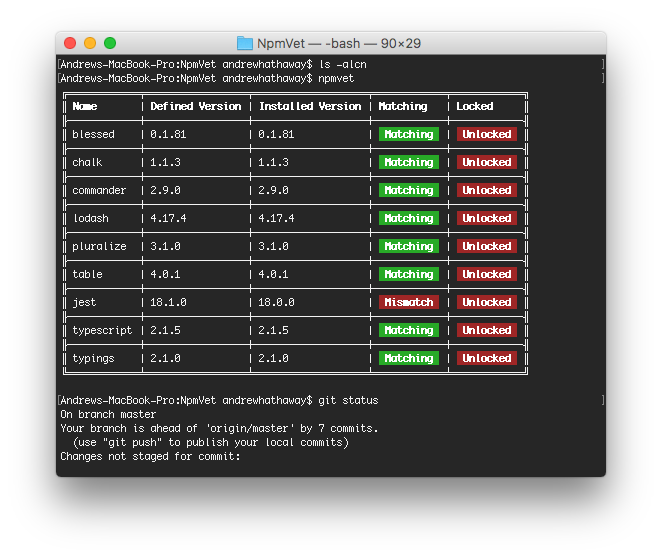
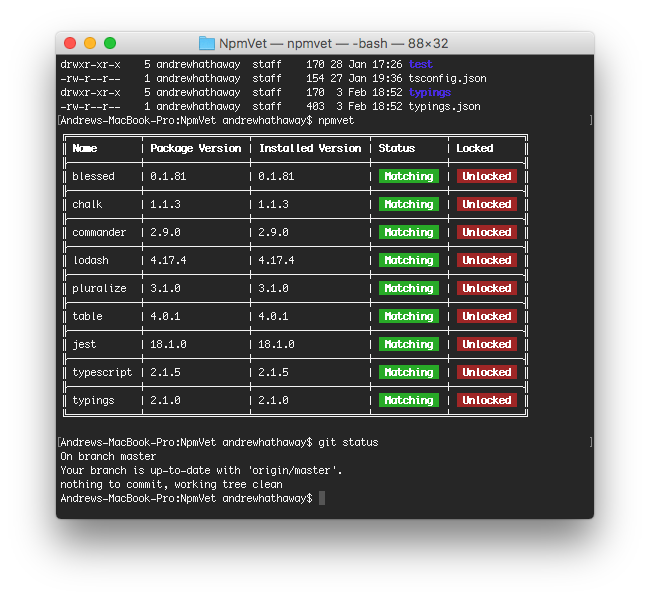
New images to show matching table headers

Changed region(s): [[0.0615, 0.061, 0.9231, 0.8851], [0.8923, 0.702, 0.9231, 0.763], [0.8923, 0.1831, 0.9231, 0.2136]]

diff --git a/README.md b/README.md
@@ -49,7 +49,7 @@ The `blessed` renderer will render a table inside a screen, that has be exited b
 
     npmvet -r blessed
 
-![](./.github/npmvet.png?raw=true)
+![](./.github/blessed.png?raw=true)
 
 ## Contributing
 
